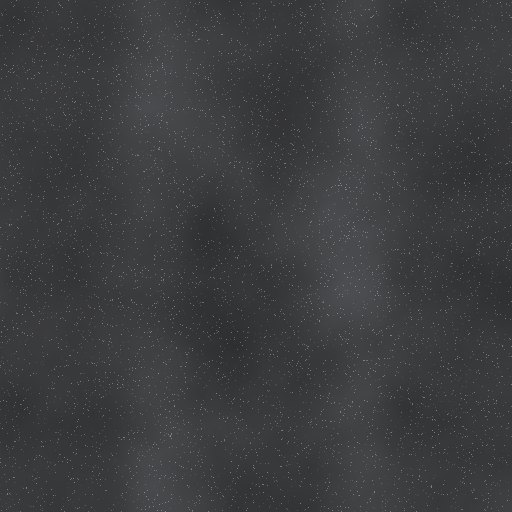
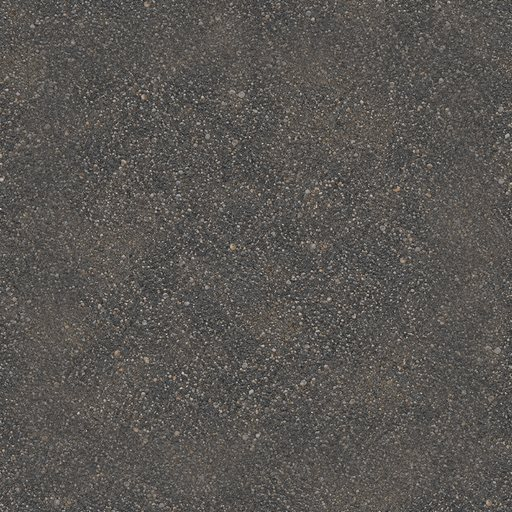
Add files via upload

diff --git a/public_html/js/kart.js b/public_html/js/kart.js
@@ -8,6 +8,13 @@ const ROAD_W = 16;                     // metres
 const MAX_V = 36, OFF_V = 15, BOOST_V = 46; // m/s
 let SAMPLES = 600;                    // set from the real circuit when it loads (one point every 4 m)
 const CIRCUIT_URL = '/assets/kart/abuja-circuit.json';
+const DRIVERS = {
+  green:  { name: 'Amaka', colour: '#1E9E55', skill: 1.0 },
+  red:    { name: 'Tunde', colour: '#E0342B', skill: 0.99 },
+  yellow: { name: 'Ngozi', colour: '#F2B51C', skill: 0.97 },
+  blue:   { name: 'Musa',  colour: '#2459D6', skill: 0.95 },
+};
+const myDriver = () => { try { const d = localStorage.getItem('buja_kart_driver'); return DRIVERS[d] ? d : 'green'; } catch { return 'green'; } };
 const TEX = '/assets/kart/';
 const BOOSTS = [0.1, 0.33, 0.52, 0.8];
 
@@ -21,8 +28,9 @@ export function registerKart({ route, go, state, api, ui, failed }) {
     const b = await api.kartBoard({ span: 'week' }).catch(() => ({ rows: [], me: null }));
     return `${topbar('Buja Kart', '/home', `<a class="iconbtn" href="#/kart/board" aria-label="Leaderboard">${icon('star')}</a>`)}
     <main class="pad stack" style="gap:14px">
-      <div class="kart-hero"><div class="kart-hero-sky"></div><div class="kart-hero-rock"></div><div class="kart-hero-dome"></div><div class="kart-hero-road"></div>
-        <div class="kart-hero-text"><div class="kart-logo">BUJA <span>KART</span></div><div>Race round Eagle Square, the National Mosque, NNPC Towers and Aso Rock.</div></div></div>
+      <div class="kart-hero kart-hero-art"><img src="/assets/kart/hero.jpg" alt="Buja Kart: racing past the City Gate, the National Mosque and Aso Rock"><div class="kart-hero-text"><div class="kart-logo">BUJA <span>KART</span></div><div>Race round Eagle Square, the National Mosque, NNPC Towers and Aso Rock.</div></div></div>
+      <div class="card stack" style="padding:12px 14px;gap:10px"><div class="h-sm">Choose your driver</div>
+        <div class="kart-drivers">${Object.entries(DRIVERS).map(([id, d]) => `<button class="kart-driver ${myDriver() === id ? 'on' : ''}" data-driver="${id}" style="--c:${d.colour}"><img src="/assets/kart/driver-${id}.jpg" alt=""><b>${d.name}</b></button>`).join('')}</div></div>
       ${b.me ? `<div class="card row" style="padding:12px 14px;gap:10px"><span style="font-size:22px">🏁</span><div class="grow"><div style="font-weight:700">Your best lap this week: ${fmt(b.me.best)}</div><div class="small muted">${b.me.rank ? ord(b.me.rank) + ' in Abuja this week' : 'Set a time to get on the board'}</div></div><a class="btn btn-sm btn-outline" href="#/kart/board" style="width:auto">Board</a></div>` : ''}
       <button class="kart-btn kart-btn-go" data-go="/kart/play?mode=bots"><b>Race</b><span>Three Abuja drivers, item boxes: 🌶 pepper, 🍌 banana, 🥤 zobo, ⚡ NEPA</span></button>
       <button class="kart-btn" data-go="/kart/play?mode=solo"><b>Time trial</b><span>Beat your own ghost, lap after lap</span></button>
@@ -36,11 +44,12 @@ export function registerKart({ route, go, state, api, ui, failed }) {
         ${[['buja_kart_orient', 'Screen', [['portrait', 'Upright'], ['landscape', 'Sideways']], 'portrait'], ['buja_kart_steer', 'Steering', [['buttons', 'Buttons'], ['tilt', 'Tilt the phone']], 'buttons'], ['buja_kart_sfx', 'Sound effects', [['1', 'On'], ['0', 'Off']], '1'], ['buja_kart_music', 'Music', [['1', 'On'], ['0', 'Off']], '1']].map(([key, label, opts, def]) => { const cur = (() => { try { return localStorage.getItem(key) || def; } catch { return def; } })(); return `<div class="row" style="gap:10px"><div class="grow" style="font-weight:600">${label}</div><select class="input" data-set="${key}" style="width:auto;height:38px">${opts.map(([v, t]) => `<option value="${v}" ${cur === v ? 'selected' : ''}>${t}</option>`).join('')}</select></div>`; }).join('')}
       </div>
       <div class="small muted" style="line-height:1.5">The circuit follows real central Abuja streets (Independence Avenue, Herbert Macaulay Way, Sani Abacha Way, Tafawa Balewa Way), compressed for a raceable lap. Road data © <a href="https://www.openstreetmap.org/copyright" target="_blank" rel="noopener">OpenStreetMap contributors</a>, ODbL. Engine and drive-by sounds recorded by alex_jauk and kontraa.</div>
-      <div class="small muted" style="line-height:1.5">Controls: tap the left and right halves of the bottom bar to steer. The kart drives itself forward; hold 🔥 while turning to drift, and let go for a boost. Drive through a ? box for an item, then tap it to use it (E on a keyboard). On a keyboard: arrow keys and space.</div>
+      <div class="small muted" style="line-height:1.5">Controls: ◀ on the left edge and ▶ on the right edge steer, one thumb each. Hold a turn at speed and you drift automatically; let go for a boost (or hold 🔥). The kart drives itself forward; hold 🔥 while turning to drift, and let go for a boost. Drive through a ? box for an item, then tap it to use it (E on a keyboard). On a keyboard: arrow keys and space.</div>
     </main>`;
   }, {
     mount(el) {
       el.querySelectorAll('[data-go]').forEach((b) => b.addEventListener('click', () => go(b.dataset.go)));
+      el.querySelectorAll('[data-driver]').forEach((b) => b.addEventListener('click', () => { try { localStorage.setItem('buja_kart_driver', b.dataset.driver); } catch {} el.querySelectorAll('[data-driver]').forEach((x) => x.classList.toggle('on', x === b)); toast(DRIVERS[b.dataset.driver].name + ' is ready'); }));
       el.querySelector('#gfx')?.addEventListener('change', (e) => { try { localStorage.setItem('buja_kart_gfx', e.target.value); } catch {} toast('Graphics: ' + e.target.value); });
       el.querySelectorAll('[data-set]').forEach((s) => s.addEventListener('change', (e) => { try { localStorage.setItem(s.dataset.set, e.target.value); } catch {} }));
       el.querySelector('#newroom').addEventListener('click', async (e) => { const b = e.currentTarget; busy(b, true); try { const r = await api.kartNewRoom({ track: 'abuja' }); go('/kart/room/' + r.code); } catch (err) { busy(b, false); failed(el, err); } });
@@ -119,7 +128,8 @@ export function registerKart({ route, go, state, api, ui, failed }) {
       <div class="kart-pause" id="pausebox"></div>
       <button class="kart-chatbtn" id="chatbtn" aria-label="Chat" style="display:none">${icon('message')}</button>
       <div class="kart-speed"><b id="spd">0</b><span>km/h</span><i id="boostbar"></i></div>
-      <div class="kart-pad"><button id="kl" aria-label="Steer left">◀</button><button id="kr" aria-label="Steer right">▶</button><div class="grow"></div><button id="kb" aria-label="Brake">■</button><button id="kd" class="kart-drift" aria-label="Drift and boost">🔥</button></div>
+      <button class="kart-steer kart-steer-l" id="kl" aria-label="Steer left">◀</button><button class="kart-steer kart-steer-r" id="kr" aria-label="Steer right">▶</button>
+      <div class="kart-mid"><button id="kb" aria-label="Brake">■</button><button id="kd" class="kart-drift" aria-label="Drift and boost">🔥</button></div>
       <div class="kart-chatbox" id="chatbox"></div>
       <div class="kart-result" id="result"></div>
     </div>`, {
@@ -179,13 +189,13 @@ class Race {
     this.audio.wake();
     if (((() => { try { return localStorage.getItem('buja_kart_orient'); } catch { return null; } })()) === 'landscape') this.setLandscape(true, true);
     if (this.steerMode === 'tilt') this.enableTilt(true);
-    this.player = this.makeKart('#FF5A00', true);
+    this.driver = myDriver(); this.player = this.makeKart(DRIVERS[this.driver].colour, true);
     this.resize(); this._onResize = () => this.resize(); window.addEventListener('resize', this._onResize);
     this.bindControls();
     this.placeOnGrid(this.player, 0);
     this.minimap();
 
-    if (this.mode === 'bots') this.bots = [['Musa', '#1F5FBF', 0.95], ['Ngozi', '#2E7D1E', 0.985], ['Tunde', '#7A3E96', 1.0]].map(([n, c, skill], i) => { const k = this.makeKart(c); k.name = n; k.skill = skill; k.lane = (i - 1) * 4; this.placeOnGrid(k, i + 1); k.v = 0; k.s = k.startS; k.lap = 1; return k; });
+    if (this.mode === 'bots') this.bots = Object.entries(DRIVERS).filter(([id]) => id !== this.driver).map(([id, d]) => [d.name, d.colour, d.skill]).map(([n, c, skill], i) => { const k = this.makeKart(c); k.name = n; k.skill = skill; k.lane = (i - 1) * 4; this.placeOnGrid(k, i + 1); k.v = 0; k.s = k.startS; k.lap = 1; return k; });
     else this.bots = [];
     if (this.mode === 'solo') { try { const g = (await this.api.kartGhost({ who: this.ghostWho })).ghost; if (g && g.path && g.path.length > 10) { this.ghost = { ...g, kart: this.makeKart('#FFFFFF', false, true) }; this.toast('Racing ' + g.name + ': ' + this.fmt(g.lapMs)); } } catch {} }
     if (this.mode === 'room') { this.el.querySelector('#chatbtn').style.display = ''; this.bindChat(); await this.syncRoom(true); }
@@ -410,7 +420,9 @@ class Race {
     const pods = new THREE.Mesh(new THREE.BoxGeometry(1.9, 0.28, 1.2), paint); pods.position.set(0, 0.42, -0.1); g.add(pods);
     const wing = new THREE.Mesh(new THREE.BoxGeometry(1.9, 0.08, 0.45), dark); wing.position.set(0, 1.18, -1.5); g.add(wing); [-0.8, 0.8].forEach((x) => { const s = new THREE.Mesh(new THREE.BoxGeometry(0.06, 0.4, 0.3), dark); s.position.set(x, 1.0, -1.5); g.add(s); });
     const seat = new THREE.Mesh(new THREE.BoxGeometry(0.75, 0.55, 0.6), dark); seat.position.set(0, 0.95, -0.55); g.add(seat);
-    const head = new THREE.Mesh(new THREE.SphereGeometry(0.33, 20, 14), ghost ? paint : new THREE.MeshStandardMaterial({ color: '#F2F2F2', metalness: 0.1, roughness: 0.15 })); head.position.set(0, 1.5, -0.4); g.add(head);
+    const stripe = ghost ? null : new THREE.Mesh(new THREE.TorusGeometry(0.335, 0.045, 6, 24, Math.PI), new THREE.MeshStandardMaterial({ color: '#F1E6CC', roughness: 0.3 }));
+    const head = new THREE.Mesh(new THREE.SphereGeometry(0.33, 20, 14), ghost ? paint : new THREE.MeshStandardMaterial({ color: colour, metalness: 0.2, roughness: 0.15 })); head.position.set(0, 1.5, -0.4); g.add(head);
+    if (stripe) { stripe.position.set(0, 1.5, -0.4); stripe.rotation.y = Math.PI / 2; g.add(stripe); }
     const visor = new THREE.Mesh(new THREE.SphereGeometry(0.335, 20, 10, -0.9, 1.8, 1.1, 0.8), ghost ? paint : new THREE.MeshStandardMaterial({ color: '#0E1116', metalness: 0.9, roughness: 0.05 })); visor.position.copy(head.position); g.add(visor);
     const wg = new THREE.CylinderGeometry(0.4, 0.4, 0.36, 18); wg.rotateZ(Math.PI / 2); const rg = new THREE.CylinderGeometry(0.22, 0.22, 0.38, 10); rg.rotateZ(Math.PI / 2);
     g.wheels = [[-0.95, 1.1], [0.95, 1.1], [-0.98, -1.1], [0.98, -1.1]].map(([x, z]) => { const w = new THREE.Group(); w.add(new THREE.Mesh(wg, tyre), new THREE.Mesh(rg, rim)); w.position.set(x, 0.4, z); g.add(w); return w; });
@@ -506,9 +518,12 @@ class Race {
     }
     if (this.paused) { this.audio.update(0, false, false, false, true); this.renderer.render(this.scene, this.camera); requestAnimationFrame(this.loop); return; }
     if (this.phase === 'race' || this.phase === 'done') {
+      // automatic drift: a turn held for half a second at speed, timed in real time so slow phones behave like fast ones
+      if ((this.input.l || this.input.r) && this.player.v > 17) this._steerSince = this._steerSince || now; else this._steerSince = 0;
+      const autoDrift = !!this._steerSince && now - this._steerSince > 450;
       const steer = this.steerMode === 'tilt' ? Math.max(-1, Math.min(1, this.tilt)) : (this.input.l ? 1 : 0) - (this.input.r ? 1 : 0);
       if (this.phase === 'race') {
-        const on = this.drive(this.player, dt, steer, this.input.brake, this.input.drift);
+        const on = this.drive(this.player, dt, steer, this.input.brake, this.input.drift || autoDrift);
         this.recording.push([Math.round(this.player.position.x * 10) / 10, Math.round(this.player.position.z * 10) / 10, Math.round(this.player.h * 100) / 100]);
         if (this.player.lapEvent) this.completeLap(now);
         this.nearLandmark(on.i);
@@ -577,7 +592,7 @@ class Race {
     try { saved = await this.api.kartSaveTime({ track: 'abuja', lapMs: this.bestLap, raceMs, mode: this.mode, ghost: this.bestPath }); } catch {}
     if (this.mode === 'room') { try { await this.api.kartFinish(this.code, raceMs); } catch {} }
     const r = this.el.querySelector('#result');
-    r.innerHTML = `<div class="kart-card"><div class="kart-place">${this.mode === 'solo' ? '🏁' : place === 1 ? '🏆' : '🏁'}</div>
+    r.innerHTML = `<div class="kart-card"><div class="kart-place"><img class="kart-face" src="/assets/kart/driver-${this.driver}.jpg" alt="" style="--c:${DRIVERS[this.driver].colour}"><span>${this.mode === 'solo' ? '🏁' : place === 1 ? '🏆' : '🏁'}</span></div>
       <div class="kart-big">${this.mode === 'solo' ? 'Race complete' : this.ord(place) + ' place'}</div>
       <div class="kart-row"><span>Race</span><b>${this.fmt(raceMs)}</b></div><div class="kart-row"><span>Best lap</span><b>${this.fmt(this.bestLap)}</b></div>
       ${saved ? `<div class="kart-row"><span>Abuja ranking, all time</span><b>${this.ord(saved.rank)}</b></div>${saved.personalBest ? '<div class="kart-pb">New personal best!</div>' : `<div class="kart-sub">Your best: ${this.fmt(saved.previousBest)}</div>`}` : ''}

diff --git a/public_html/css/app.css b/public_html/css/app.css
@@ -381,3 +381,32 @@ body.kart-on .kart-stage{width:100vw;height:100vh;height:100dvh}
 .kart-dark.on{animation:kdark 2.4s steps(1,end) forwards}
 @keyframes kdark{0%{opacity:1}12%{opacity:.2}18%{opacity:1}70%{opacity:.85}82%{opacity:.3}100%{opacity:0}}
 @media (orientation: landscape) and (max-height: 520px){.kart-item{bottom:calc(98px + var(--safe-b,0px));width:64px;height:64px;font-size:32px}}
+/* Buja Kart: steering at the screen edges, one thumb each; drivers; key art (Phase 34) */
+.kart-steer{position:absolute;bottom:calc(10px + var(--safe-b,0px));width:min(30vw,132px);height:min(24vh,180px);border:none;border-radius:26px;background:rgba(255,255,255,.26);backdrop-filter:blur(4px);-webkit-backdrop-filter:blur(4px);color:#fff;font-size:40px;font-weight:900;box-shadow:inset 0 0 0 2px rgba(255,255,255,.55);touch-action:none;-webkit-user-select:none;user-select:none}
+.kart-steer-l{left:calc(8px + var(--safe-l,0px))}
+.kart-steer-r{right:calc(8px + var(--safe-r,0px))}
+.kart-steer.on{background:rgba(255,122,26,.75)}
+.kart-mid{position:absolute;left:50%;transform:translateX(-50%);bottom:calc(10px + var(--safe-b,0px));display:flex;gap:10px;align-items:flex-end}
+.kart-mid button{width:62px;height:62px;border-radius:20px;border:none;background:rgba(255,255,255,.26);backdrop-filter:blur(4px);-webkit-backdrop-filter:blur(4px);color:#fff;font-size:24px;font-weight:900;box-shadow:inset 0 0 0 2px rgba(255,255,255,.55);touch-action:none}
+.kart-mid button.on{background:rgba(255,122,26,.75)}
+.kart-mid .kart-drift{background:rgba(255,122,26,.45)}
+.kart-speed{bottom:calc(84px + var(--safe-b,0px))}
+.kart-item{right:50%;transform:translateX(50%);bottom:calc(158px + var(--safe-b,0px))}
+.kart-pad{display:none}
+.kart-tiltmode .kart-steer{visibility:hidden}
+@media (orientation: landscape) and (max-height: 520px){
+  .kart-steer{height:min(46vh,190px);width:min(18vw,150px);bottom:calc(12px + var(--safe-b,0px))}
+  .kart-mid{bottom:calc(10px + var(--safe-b,0px))} .kart-mid button{width:54px;height:54px}
+  .kart-speed{bottom:calc(72px + var(--safe-b,0px))}
+  .kart-item{bottom:calc(128px + var(--safe-b,0px))}
+}
+.kart-hero-art{background:#0e1320}
+.kart-hero-art img{position:absolute;inset:0;width:100%;height:100%;object-fit:cover;object-position:60% 40%}
+.kart-hero-art .kart-hero-text{background:linear-gradient(transparent,rgba(0,0,0,.65));left:0;right:0;bottom:0;padding:26px 16px 12px}
+.kart-drivers{display:grid;grid-template-columns:repeat(4,1fr);gap:8px}
+.kart-driver{border:none;background:var(--surface);border-radius:16px;padding:6px;display:flex;flex-direction:column;align-items:center;gap:4px;box-shadow:inset 0 0 0 2px transparent;cursor:pointer;color:var(--ink)}
+.kart-driver img{width:100%;aspect-ratio:1;border-radius:12px;object-fit:cover}
+.kart-driver b{font-size:12px}
+.kart-driver.on{box-shadow:inset 0 0 0 3px var(--c);background:color-mix(in srgb,var(--c) 14%,var(--card))}
+.kart-place{display:flex;align-items:center;justify-content:center;gap:10px}
+.kart-face{width:84px;height:84px;border-radius:42px;object-fit:cover;box-shadow:0 0 0 4px var(--c)}

diff --git a/public_html/sw.js b/public_html/sw.js
@@ -1,7 +1,7 @@
 /* Buja service worker, phase 1.
    Cache-first for the app shell and static assets, network-only for /api.
    Bump VERSION whenever a shell file changes so users get the update. */
-const VERSION = 'buja-shell-v55';
+const VERSION = 'buja-shell-v56';
 const SHELL = [
   '/', '/index.html', '/manifest.webmanifest', '/assets/icons/icon-192.png', '/assets/icons/icon-512.png', '/offline.html',
   '/css/app.css', '/js/app.js', '/js/api.js', '/js/ui.js', '/js/store.js', '/js/icons.js', '/js/work.js', '/js/messages.js', '/js/match.js', '/js/waka.js', '/js/homes.js', '/js/declutter.js', '/js/ask.js', '/js/trust.js', '/js/city.js', '/js/safety.js', '/js/growth.js', '/js/call.js', '/js/rtc.js', '/js/alerts.js', '/js/trustalerts.js', '/js/services.js', '/js/passkey.js', '/js/citysignals.js', '/js/learn.js', '/js/citymore.js', '/js/engage.js', '/js/adminshell.js', '/js/tags.js', '/js/kart.js', '/js/ads.js', '/js/map.js', '/js/servicejobs.js', '/js/vendor/qrcode.js',
